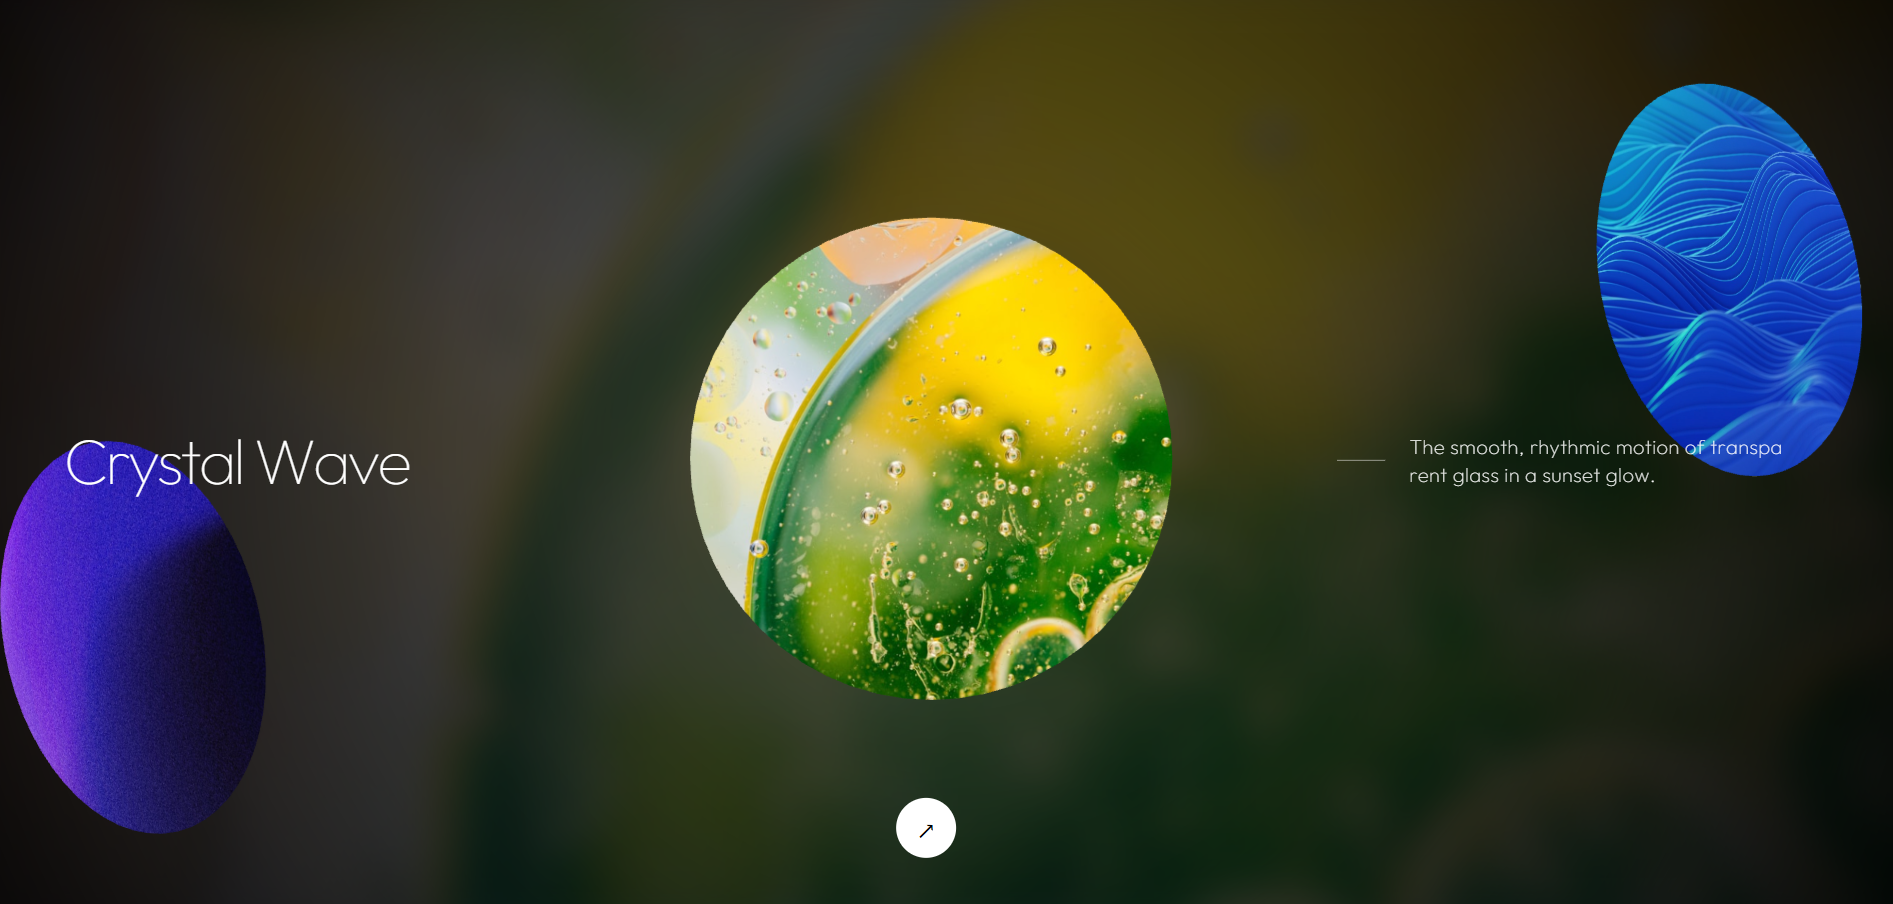
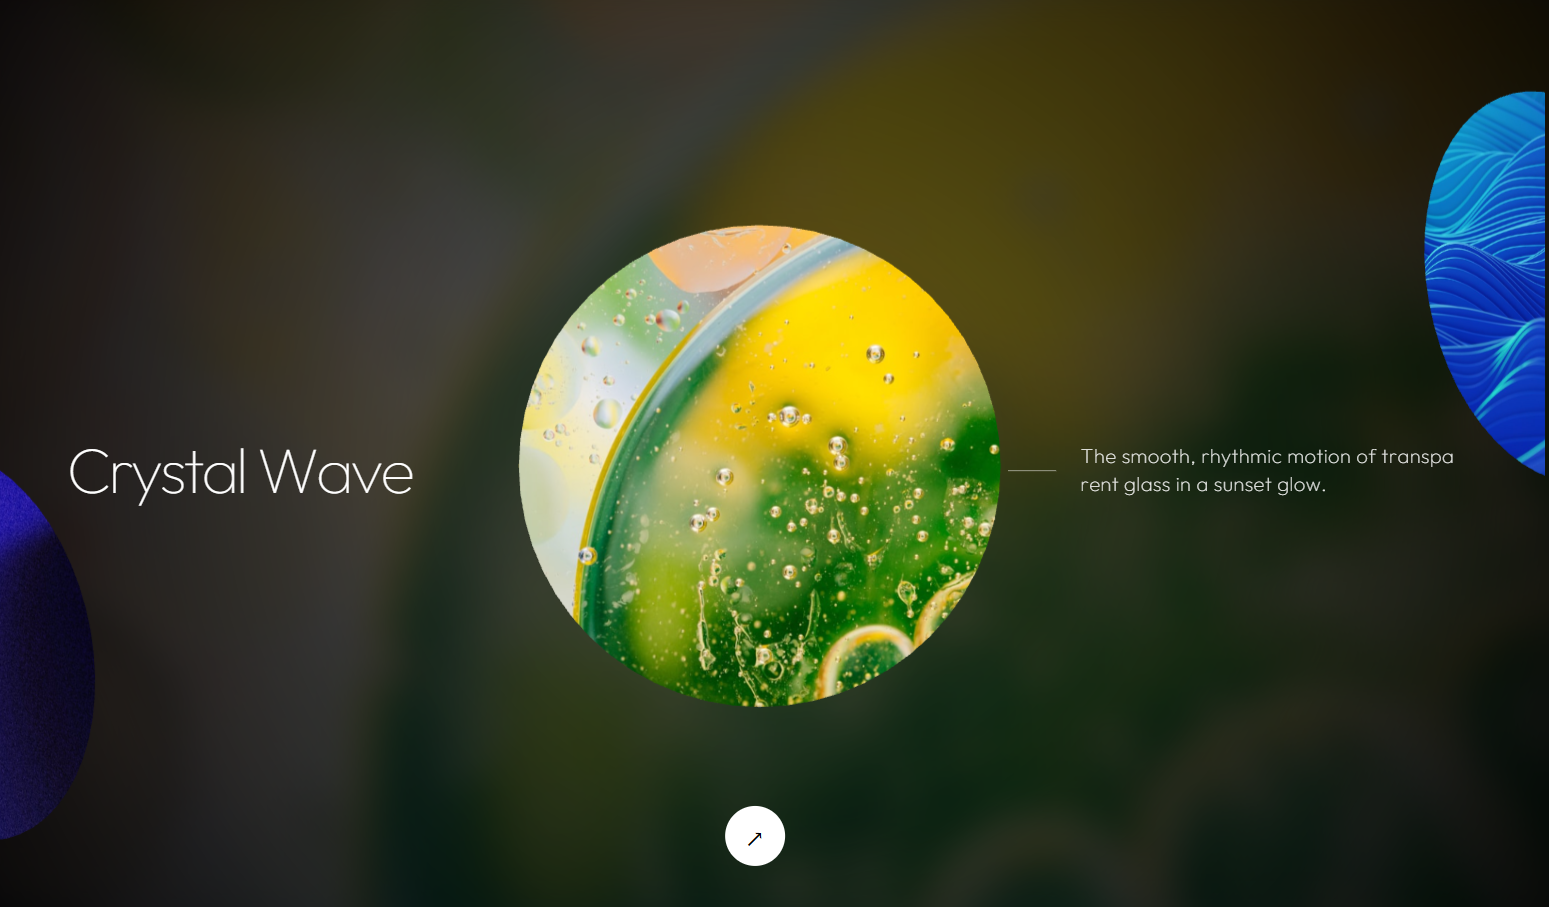
fix: use bg-proyec images for uiux card backgrounds

diff --git a/src/index.css b/src/index.css
@@ -1900,7 +1900,7 @@ header nav ul:nth-child(2) li a::before {
     align-items: flex-start;
 }
 
-.despliegues-card .sec__2__card__ctn__img__tt > a {
+.despliegues-card .sec__2__card__ctn__img__tt>a {
     margin-top: auto;
 }
 
@@ -2109,11 +2109,11 @@ header nav ul:nth-child(2) li a::before {
         margin-left: -15px;
     }
 
-    .sec__2__card__ctn__img__tt > a {
+    .sec__2__card__ctn__img__tt>a {
         margin-top: 10px;
     }
 
-    .despliegues-card .sec__2__card__ctn__img__tt > a {
+    .despliegues-card .sec__2__card__ctn__img__tt>a {
         margin-top: 10px;
     }
 }
@@ -2400,19 +2400,19 @@ header nav ul:nth-child(2) li a::before {
 }
 
 .sec__3__card:nth-child(5) {
-    background-image: url(/img/fondo-proyecto-breef.webp), var(--linear-gradient-card-blur);
+    background-image: url(/img/bg-proyec-1.webp), var(--linear-gradient-card-blur);
 }
 
 .sec__3__card:nth-child(6) {
-    background-image: url(/img/fondo-proyecto-ginebra.webp), var(--linear-gradient-card-blur);
+    background-image: url(/img/bg-proyec-2.webp), var(--linear-gradient-card-blur);
 }
 
 .sec__3__card:nth-child(7) {
-    background-image: url(/img/fondo-proyecto-mustang.webp), var(--linear-gradient-card-blur);
+    background-image: url(/img/bg-proyec-3.webp), var(--linear-gradient-card-blur);
 }
 
 .sec__3__card:nth-child(8) {
-    background-image: url(/img/fondo-proyecto-matter.webp), var(--linear-gradient-card-blur);
+    background-image: url(/img/bg-proyec-4.webp), var(--linear-gradient-card-blur);
 }
 
 .sec__3__card:nth-child(5) .sec__3__card__flex___number {
@@ -3128,6 +3128,7 @@ footer .sec__hero__tt__bottom {
         align-items: start;
     }
 }
+
 /* Custom Cursor */
 .custom-cursor {
     width: 8px;
@@ -3158,7 +3159,9 @@ footer .sec__hero__tt__bottom {
 
 
 @media (hover: none) and (pointer: coarse) {
-    .custom-cursor, .custom-cursor-follower {
+
+    .custom-cursor,
+    .custom-cursor-follower {
         display: none;
     }
 }

diff --git a/src/components/Projects.jsx b/src/components/Projects.jsx
@@ -168,14 +168,14 @@ const Projects = () => {
       </div>
 
       <div className="sec__3__controls">
-        <div 
-          className="control__active__bg" 
-          style={{ 
+        <div
+          className="control__active__bg"
+          style={{
             transform: activeOption === 'my'
               ? 'translateX(0)'
               : activeOption === 'cloned'
-              ? 'translateX(calc(100% + 3px))'
-              : 'translateX(calc(200% + 6px))'
+                ? 'translateX(calc(100% + 3px))'
+                : 'translateX(calc(200% + 6px))'
           }}
         ></div>
         <p
